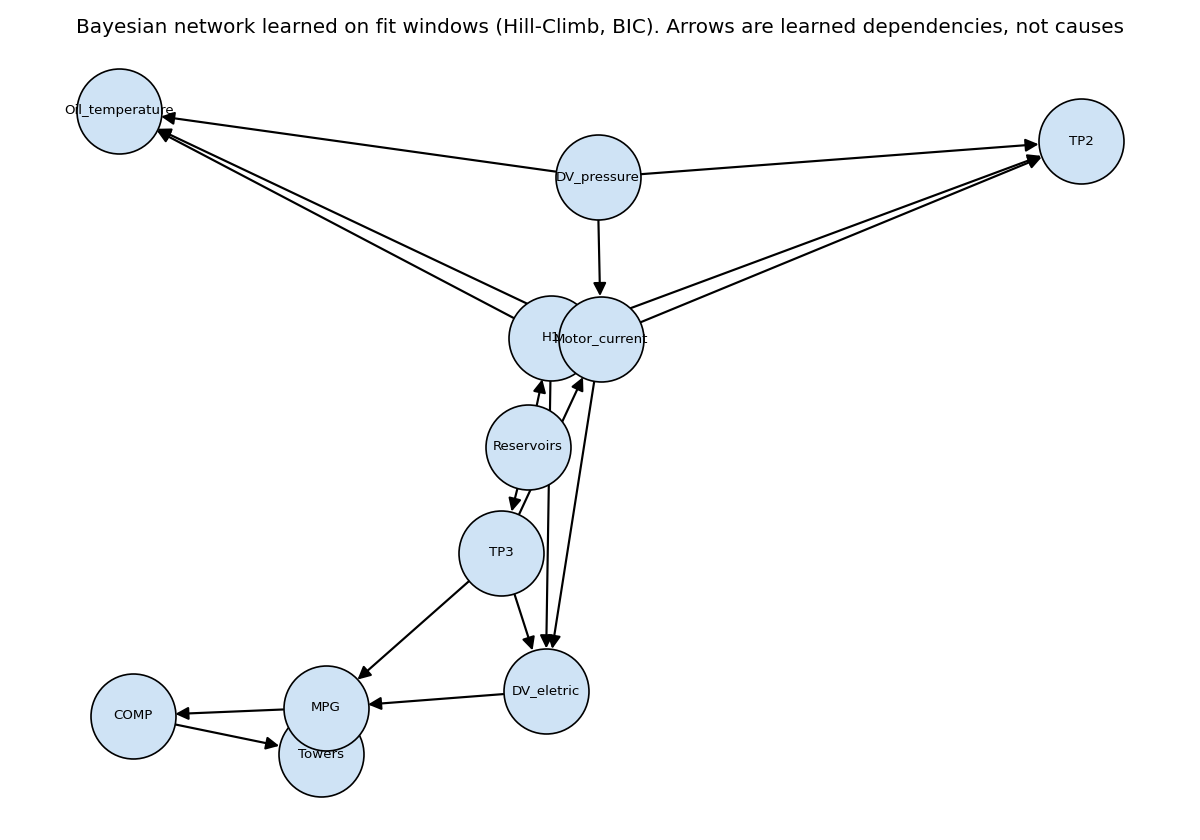
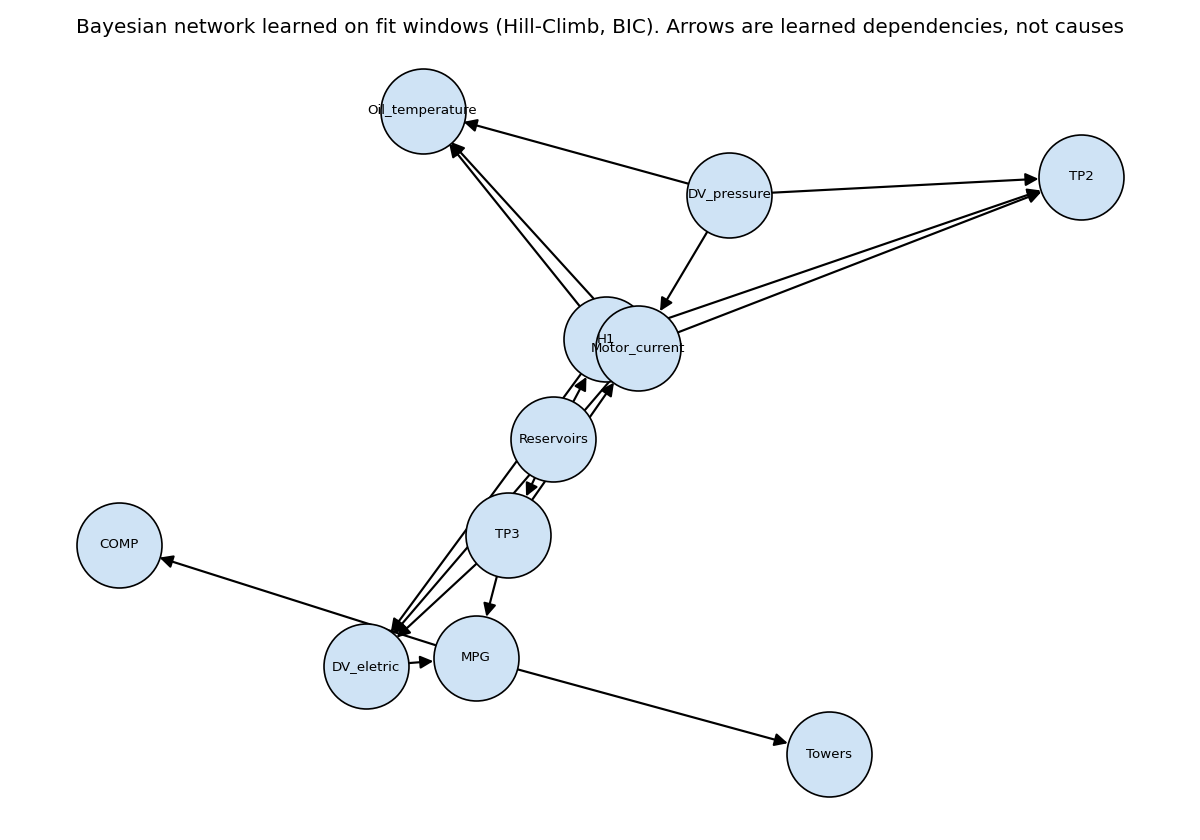
step07: make Bayesian network reproducible with a fixed hash seed; regenerate outputs

diff --git a/src/metroguard/step_run_tracking.py b/src/metroguard/step_run_tracking.py
@@ -3,6 +3,9 @@
 import hashlib
 import json
 import logging
+import os
+import subprocess
+import sys
 import time
 from collections.abc import Iterable, Iterator
 from contextlib import contextmanager
@@ -11,6 +14,7 @@ from pathlib import Path
 from typing import Any
 
 LOG_FORMAT = "%(asctime)s %(levelname)s %(message)s"
+HASH_SEED_VARIABLE = "PYTHONHASHSEED"
 
 
 def config_fingerprint(config_values: Any) -> str:
@@ -73,3 +77,16 @@ def track_step_run(step_name: str, logs_dir: Path, fingerprint: str) -> Iterator
     }
     manifest_path(logs_dir, step_name).write_text(json.dumps(manifest, indent=2), encoding="utf-8")
     logging.getLogger(step_name).info("%s finished in %.1f s", step_name, runtime_seconds)
+
+
+def rerun_with_fixed_hash_seed() -> int | None:
+    """Re-run the current script with PYTHONHASHSEED=0 unless it is already set that way.
+
+    pgmpy's hill-climb search breaks ties between equally scoring edge directions in set-iteration
+    order, which depends on Python's randomised string hashing. Fixing the hash seed makes the
+    learned structure reproducible. Returns the child's exit code, or None if no re-run was needed.
+    """
+    if os.environ.get(HASH_SEED_VARIABLE) == "0":
+        return None
+    environment = {**os.environ, HASH_SEED_VARIABLE: "0"}
+    return subprocess.run([sys.executable, *sys.argv], env=environment, check=False).returncode

diff --git a/pipeline/step07_build_bayesian_network.py b/pipeline/step07_build_bayesian_network.py
@@ -2,11 +2,11 @@
 
 import argparse
 import json
+import sys
 
 import numpy as np
 import pandas as pd
 
-from metroguard import bayesian_network as bn
 from metroguard import plotting
 from metroguard.chronological_split import CALIB, FIT_SPLITS
 from metroguard.config_loader import load_config
@@ -21,8 +21,14 @@ from metroguard.step_run_tracking import (
     config_fingerprint,
     configure_step_logging,
     is_step_up_to_date,
+    rerun_with_fixed_hash_seed,
     track_step_run,
 )
+
+if (exit_code := rerun_with_fixed_hash_seed()) is not None:
+    sys.exit(exit_code)
+
+from metroguard import bayesian_network as bn  # noqa: E402
 
 STEP_NAME = "step07_build_bayesian_network"
 STATES_FILE = "window_discrete_states.parquet"

diff --git a/reports/decision_log.md b/reports/decision_log.md
@@ -284,15 +284,17 @@ and the binarised COMP, DV_eletric, Towers, MPG. Outputs: `reports/tables/bayesi
 `reports/figures/bayesian_network/bayesian_network_dag.png`.
 
 **Key numbers.**
-- 18 learned edges. Strongest dependency (mutual information 1.085 nats): `TP3_mean -> Reservoirs_mean`.
-  The causal-direction and evidential queries show these two are near-deterministic copies of each other
-  (P about 0.997 to 0.999 on the matching state), which is expected for two pressure sensors on the same
-  circuit. It says nothing about what causes what.
-- d-separation (see the demonstrations file): chain MPG_active / COMP_active / Towers_active is connected
-  (True) and becomes blocked once COMP_active is observed (False); collider DV_pressure_mean /
+- 18 learned edges. Strongest dependency (mutual information 1.085 nats): `Reservoirs_mean -> TP3_mean`.
+  The causal-direction and evidential queries show these two are near-deterministic copies of each other,
+  which is expected for two pressure sensors on the same circuit. The direction of this edge flipped
+  between two otherwise identical runs (see "Reproducibility" below), which is a concrete reminder that
+  learned edge direction says nothing about what causes what.
+- d-separation (see the demonstrations file): chain DV_eletric_active / MPG_active / COMP_active is connected
+  (True) and becomes blocked once MPG_active is observed (False); fork COMP_active / MPG_active /
+  Towers_active is connected (True) and blocked (False) given MPG_active; collider DV_pressure_mean /
   Motor_current_mean / TP3_mean is blocked (False) and becomes connected (True) once Motor_current_mean is
-  observed. The fork shown (Oil_temperature_mean / DV_pressure_mean / TP2_mean) stays connected because
-  other paths exist in this dense DAG.
+  observed. The generator prefers patterns where evidence changes the answer, because this DAG is dense and
+  other paths often keep two nodes connected.
 - Local independence: node vs a parent is dependent, node vs a non-parent non-descendant given its parents
   is independent (d-separated), node vs a descendant is dependent, as the theory predicts.
 
@@ -301,14 +303,13 @@ primary-score models it detected the most reported events on test (4 of 4, ties 
 unconfirmed alerts per day). Explained events: the alert events inside reported windows 1 and 2.
 Share of event windows above the calib 95th percentile of -log P(state | Markov blanket), against 5%
 expected by chance (flag: more than 10%):
-- Window 1: `Towers_active` 42.7% and `COMP_active` 57.3% flagged; `MPG_active` 3.1% and all analog
-  variables not flagged.
-- Window 2: `Towers_active` 39.3%, `COMP_active` 60.0% and `MPG_active` 98.8% flagged; all analog
-  variables not flagged.
+- Window 1: `Towers_active` 42.7% and `MPG_active` 57.3% flagged; `COMP_active` and all analog variables not
+  flagged.
+- Window 2: `Towers_active` 39.3% and `MPG_active` 60.0% flagged; `COMP_active` and all analog variables not
+  flagged.
 Absolute surprisals are small (thousandths of a nat for most variables), so this is a statement about
-association relative to calib, not a strong effect. The flagged variables are the digital compressor
-signals; the analog states were not unusual given their blankets. Wording is "unusual / associated",
-never "caused".
+association relative to calib, not a strong effect. The flagged variables are digital compressor signals;
+the analog states were not unusual given their blankets. Wording is "unusual / associated", never "caused".
 
 **Decisions and reasons.**
 - *Node choice*: the 4 digital signals that are near-constant in February (Oil_level, Caudal_impulses,
@@ -329,6 +330,13 @@ never "caused".
 - pgmpy API drift handled: `pgmpy.causal_discovery.HillClimbSearch` with `return_type="dag"`, categorical
   columns (integer columns are treated as continuous), and `DiscreteBayesianEstimator` for BDeu.
 - New `config.yaml` keys (no existing default changed): the `bayesian_network` section.
+- *Reproducibility*: a first full re-run produced the same scores and metrics but different edge directions
+  for some node pairs. pgmpy's hill climb breaks ties between equally scoring (Markov-equivalent) edge
+  directions in set-iteration order, which depends on Python's randomised string hash; with some hash seeds
+  the search was also very slow (one run was stopped after several minutes). `rerun_with_fixed_hash_seed()`
+  in `step_run_tracking.py` now re-runs step 7 with `PYTHONHASHSEED=0`; two consecutive runs give a
+  byte-identical `bayesian_network_edges.csv`. Hidden consequence: the particular edge directions shown are
+  one member of an equivalence class, not a finding.
 
 ## Step 08: evaluate alerts (2026-10-11)
 

diff --git a/reports/tables/bayesian_network_demonstrations.md b/reports/tables/bayesian_network_demonstrations.md
@@ -2,7 +2,7 @@
 
 Edges are learned statistical dependencies, not causes. Terms follow the syllabus.
 
-Learned edges (18): COMP_active -> Towers_active, DV_eletric_active -> MPG_active, DV_pressure_mean -> Motor_current_mean, DV_pressure_mean -> Oil_temperature_mean, DV_pressure_mean -> TP2_mean, H1_mean -> DV_eletric_active, H1_mean -> Oil_temperature_mean, H1_mean -> TP2_mean, MPG_active -> COMP_active, Motor_current_mean -> DV_eletric_active, Motor_current_mean -> H1_mean, Motor_current_mean -> Oil_temperature_mean, Motor_current_mean -> TP2_mean, Reservoirs_mean -> H1_mean, Reservoirs_mean -> TP3_mean, TP3_mean -> DV_eletric_active, TP3_mean -> MPG_active, TP3_mean -> Motor_current_mean
+Learned edges (18): DV_eletric_active -> MPG_active, DV_pressure_mean -> Motor_current_mean, DV_pressure_mean -> Oil_temperature_mean, DV_pressure_mean -> TP2_mean, H1_mean -> DV_eletric_active, H1_mean -> Oil_temperature_mean, H1_mean -> TP2_mean, MPG_active -> COMP_active, MPG_active -> Towers_active, Motor_current_mean -> DV_eletric_active, Motor_current_mean -> H1_mean, Motor_current_mean -> Oil_temperature_mean, Motor_current_mean -> TP2_mean, Reservoirs_mean -> H1_mean, Reservoirs_mean -> TP3_mean, TP3_mean -> DV_eletric_active, TP3_mean -> MPG_active, TP3_mean -> Motor_current_mean
 
 Demonstration edge: `Reservoirs_mean -> TP3_mean` (highest empirical mutual information on fit windows, 1.085 nats).
 
@@ -24,12 +24,12 @@ Demonstration edge: `Reservoirs_mean -> TP3_mean` (highest empirical mutual info
 
 ## Local independence (node vs parents, non-parents, descendants)
 
-- node and a parent: COMP_active and MPG_active, given nothing: **dependent (d-connected)**
-- node and a non-parent non-descendant, given its parents: COMP_active and DV_eletric_active, given MPG_active: **independent (d-separated)**
-- node and a descendant: COMP_active and Towers_active, given nothing: **dependent (d-connected)**
+- node and a parent: DV_eletric_active and H1_mean, given nothing: **dependent (d-connected)**
+- node and a non-parent non-descendant, given its parents: DV_eletric_active and DV_pressure_mean, given H1_mean, Motor_current_mean, TP3_mean: **independent (d-separated)**
+- node and a descendant: DV_eletric_active and MPG_active, given nothing: **dependent (d-connected)**
 
 ## d-separation in chain, fork and collider patterns
 
-- chain MPG_active / COMP_active / Towers_active: connected without evidence = True; connected given COMP_active = False
-- fork Oil_temperature_mean / DV_pressure_mean / TP2_mean: connected without evidence = True; connected given DV_pressure_mean = True
+- chain DV_eletric_active / MPG_active / COMP_active: connected without evidence = True; connected given MPG_active = False
+- fork COMP_active / MPG_active / Towers_active: connected without evidence = True; connected given MPG_active = False
 - collider DV_pressure_mean / Motor_current_mean / TP3_mean: connected without evidence = False; connected given Motor_current_mean = True

diff --git a/reports/tables/metrics.md b/reports/tables/metrics.md
@@ -54,20 +54,20 @@ Detection delay in hours (nan = not detected):
 
 | model              | score                    | frozen_at           |   calib_windows |
 |:-------------------|:-------------------------|:--------------------|----------------:|
-| markov_state_model | max_transition_surprisal | 2026-10-11T11:24:02 |            7100 |
-| rbm_k1             | free_energy              | 2026-10-11T11:19:21 |            7100 |
-| rbm_k10            | free_energy              | 2026-10-11T11:19:32 |            7100 |
-| rbm_k5             | free_energy              | 2026-10-11T11:19:26 |            7100 |
-| vae                | negative_elbo            | 2026-10-11T11:23:00 |            7100 |
-| vae                | reconstruction_error     | 2026-10-11T11:23:00 |            7100 |
-| zscore_baseline    | max_abs_z                | 2026-10-11T11:17:26 |            7100 |
-| zscore_baseline    | mean_abs_z               | 2026-10-11T11:17:26 |            7100 |
+| markov_state_model | max_transition_surprisal | 2026-10-11T14:43:51 |            7100 |
+| rbm_k1             | free_energy              | 2026-10-11T14:42:43 |            7100 |
+| rbm_k10            | free_energy              | 2026-10-11T14:43:03 |            7100 |
+| rbm_k5             | free_energy              | 2026-10-11T14:42:51 |            7100 |
+| vae                | negative_elbo            | 2026-10-11T14:43:47 |            7100 |
+| vae                | reconstruction_error     | 2026-10-11T14:43:47 |            7100 |
+| zscore_baseline    | max_abs_z                | 2026-10-11T14:42:29 |            7100 |
+| zscore_baseline    | mean_abs_z               | 2026-10-11T14:42:29 |            7100 |
 
 Score-table file modification times (written after thresholds were frozen):
 
 | file                           | last_modified       |
 |:-------------------------------|:--------------------|
-| zscore_baseline_scores.parquet | 2026-10-11T11:17:27 |
-| rbm_scores.parquet             | 2026-10-11T11:19:33 |
-| vae_scores.parquet             | 2026-10-11T11:23:01 |
-| markov_scores.parquet          | 2026-10-11T11:24:02 |
+| zscore_baseline_scores.parquet | 2026-10-11T14:42:29 |
+| rbm_scores.parquet             | 2026-10-11T14:43:03 |
+| vae_scores.parquet             | 2026-10-11T14:43:47 |
+| markov_scores.parquet          | 2026-10-11T14:43:51 |

diff --git a/reports/tables/bayesian_network_alert_context.md b/reports/tables/bayesian_network_alert_context.md
@@ -9,8 +9,8 @@ Per variable: -log P(observed state | Markov blanket) in nats, averaged over the
 | variable             |   event_mean |   calib_mean |   calib_p95 |   share_above_calib_p95 | unusual   |
 |:---------------------|-------------:|-------------:|------------:|------------------------:|:----------|
 | Towers_active        |       0.6905 |       0.0367 |      0.4513 |                  0.4266 | yes       |
-| COMP_active          |       0.0014 |       0.0001 |      0.0001 |                  0.5727 | yes       |
-| MPG_active           |       0      |       0.0001 |      0      |                  0.0313 | no        |
+| COMP_active          |       0.0016 |       0.0002 |      0.0016 |                  0      | no        |
+| MPG_active           |       0      |       0      |      0      |                  0.5727 | yes       |
 | Reservoirs_mean      |       0.0127 |       0.017  |      0.0082 |                  0.0013 | no        |
 | TP3_mean             |       0.0115 |       0.0169 |      0.0063 |                  0.0013 | no        |
 | Oil_temperature_mean |       0.8055 |       0.8147 |      3.0257 |                  0      | no        |
@@ -25,8 +25,8 @@ Per variable: -log P(observed state | Markov blanket) in nats, averaged over the
 | variable             |   event_mean |   calib_mean |   calib_p95 |   share_above_calib_p95 | unusual   |
 |:---------------------|-------------:|-------------:|------------:|------------------------:|:----------|
 | Towers_active        |       0.6684 |       0.0367 |      0.4513 |                  0.3926 | yes       |
-| COMP_active          |       0.0015 |       0.0001 |      0.0001 |                  0.6    | yes       |
-| MPG_active           |       0      |       0.0001 |      0      |                  0.9877 | yes       |
+| COMP_active          |       0.0016 |       0.0002 |      0.0016 |                  0      | no        |
+| MPG_active           |       0      |       0      |      0      |                  0.6    | yes       |
 | TP3_mean             |       0.0062 |       0.0169 |      0.0063 |                  0      | no        |
 | Oil_temperature_mean |       0.8004 |       0.8147 |      3.0257 |                  0      | no        |
 | Reservoirs_mean      |       0.0006 |       0.017  |      0.0082 |                  0      | no        |
